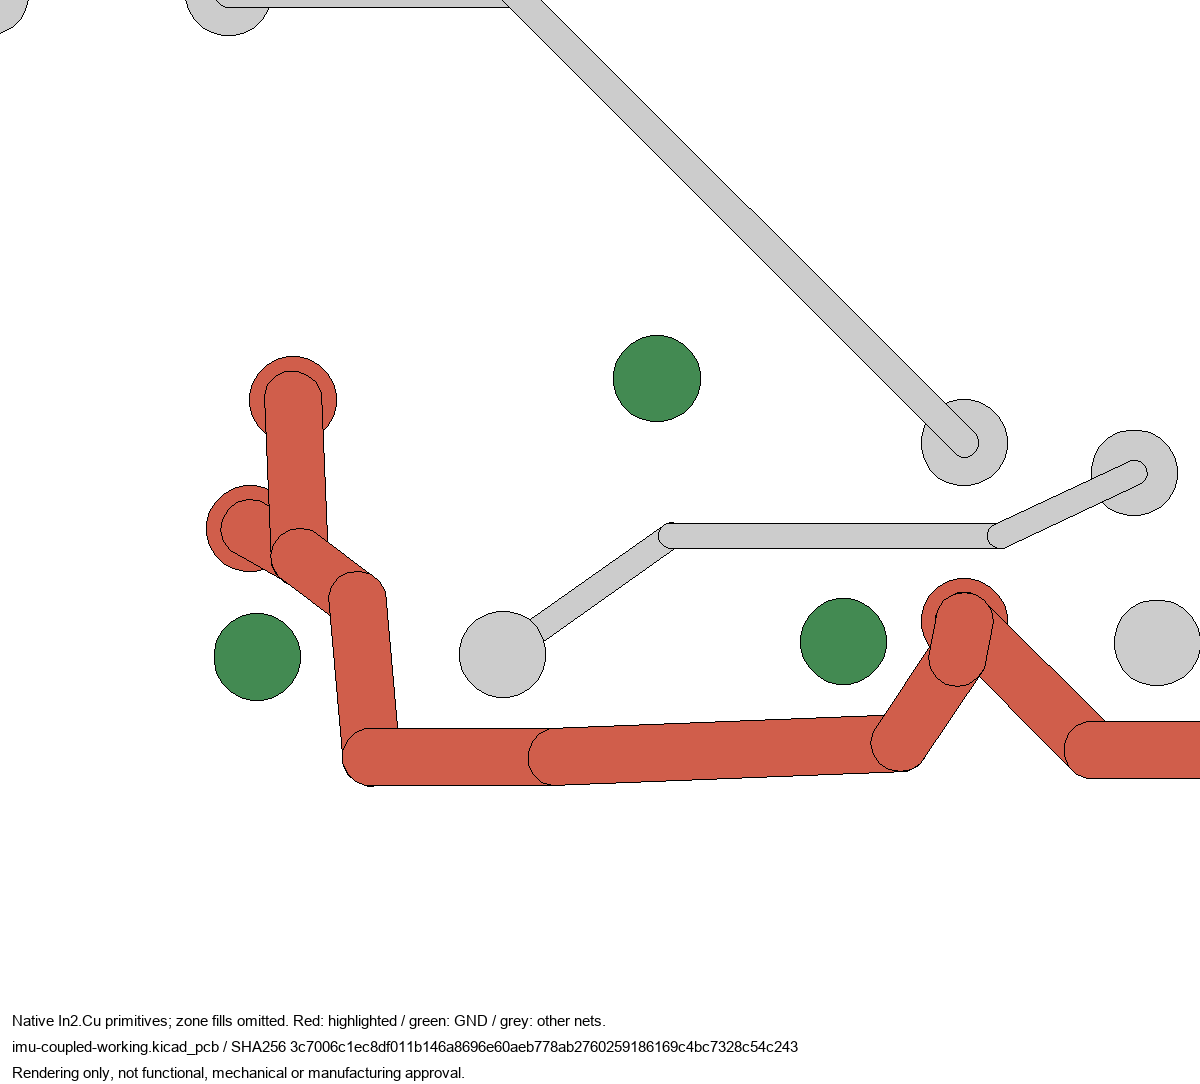
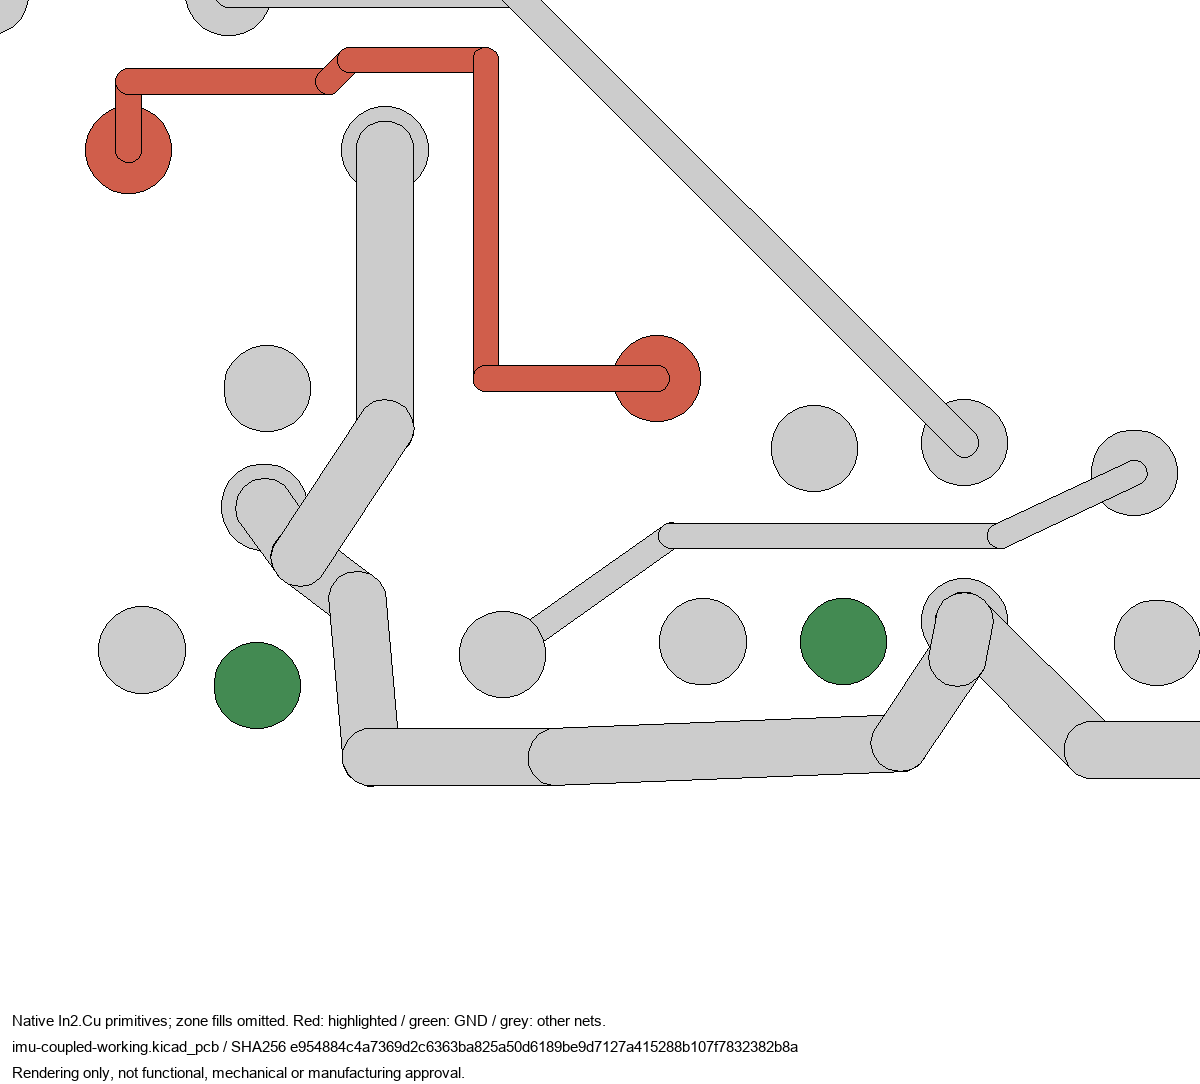
Preserve complete local IMU primitive routing for electrical qualification

Changed region(s): [[0.0617, 0.0304, 1.0, 0.7306], [0.2467, 0.9437, 0.6783, 0.9742], [0.6167, 0.3653, 0.74, 0.4566]]

diff --git a/docs/pcb-closure-plan.md b/docs/pcb-closure-plan.md
@@ -166,6 +166,49 @@ primitive proof and ERC after byte comparisons, rather than rerunning them;
 
 ## Owner pause and next item
 
+**September 24: complete local primitive block staged; acceptance pending.**
+The [layer-correction result](../hardware/handbell/iterations/printed-bell-four-layer/reports/imu-signal-layer-correction.json)
+records working PCB
[2 lines of base64/hex data omitted]
+The recovery pair `reports/imu-coupled-working.*` now holds those bytes;
+earlier repaired-supply versions remain in Git history.
+
+The shallower CS detour and additional ordinary INT B-to-F transition
+passed simultaneous native geometry. The proposed R15 move, conditional
+spur removal, ground reroute and signal plan are now actually applied.
+All local supply/exterior duties, SCL including R14, SDA including R15,
+INT2-to-TP6 and INT-to-local-F-exit are connected primitively with zero
+shorts. GND1/2/3 reaches C23.2 and GND6/7 reaches the local via.
+All nine changed/new ordinary vias pass same-net-inclusive off-pad checks.
+The 21 zone definitions are unchanged and have no filled caches.
+INT still does not reach IC1.34; that external connection is not claimed.
+
+**Next bounded item: electrical qualification of these exact saved bytes.**
+Preserve an immutable unfilled pair; refill a separate output using the
+exercised settings, with matching project/rules inputs. Persist each gate.
+Compare the full accepted baseline's connected pad groups, not just IMU
+representatives. Require both new returns to MAIN, no lost prior groups,
+cross-net shorts or floating copper, both actual private-terminal cuts,
+CELL_NEG isolation, full contact/drill/clearance and source/manifest/zone
+invariants, then native DRC with an explicit open-count comparison.
+Expected local progress is at least the two GND opens and SCL pullup open;
+do not assert 38 opens before measuring the filled board.
+
+Run one 15-minute qualification item with at most two validator-only
+corrections; no new routing or placement changes. Source-invariant checks
+must include all cumulative rework releases from the accepted source,
+including the proved conditional spur removal and preserved exterior
+geometry. Do not weaken the acceptance criteria to match a failing result.
+If a routing defect appears, retain evidence and return a finite repair
+list instead of modifying copper inside a validation task.
+
+Even electrical qualification does not promote this candidate. The
+actual return-plane continuity, local decoupling supply/return paths,
+B/In2 signal adjacency and via transitions still need engineering review,
+and moved IC4/R15 require exact mechanical rebinding. The authoritative
+board remains the unchanged 41-open checkpoint until all applicable gates.
+
 **September 24, 10:59 explicit resumption.** Resume from the matched
 `3c7006c1...` / `a1278051...` repaired supply candidate, not the failed
 in-memory signal proposal. The accepted 41-open board remains unchanged.

diff --git a/hardware/handbell/iterations/printed-bell-four-layer/README.md b/hardware/handbell/iterations/printed-bell-four-layer/README.md
@@ -25,17 +25,20 @@ does not qualify full routing, DRC, powered behavior or mechanical fit.
 Continue only through the [current closure handoff](../../../../docs/pcb-closure-plan.md#owner-pause-and-next-item).
 
 The subsequent [working PCB](reports/imu-coupled-working.kicad_pcb) and
-[working manifest](reports/imu-coupled-working-manifest.json) now preserve
-all five ground straps, all local supply duties and INT2-to-TP6 routing.
-The [ordinary-via repair](reports/imu-vddio-via-repair.json) closes the
-same-net pad-overlap process finding without adding a via-in-pad dependency.
+[working manifest](reports/imu-coupled-working-manifest.json) now contain
+the [complete local primitive block](reports/imu-signal-layer-correction.json):
+local supply, SCL, SDA, INT2-to-TP6 and an INT local exit are connected.
+Ground straps reach C23.2/local via, not yet proven MAIN-plane attachment.
+IC4 and R15 are each shifted north 0.50 mm in this working candidate.
+Ordinary-via off-pad checks pass without a new via-in-pad dependency.
 Their native
 [front](reports/imu-working-front.png)/[inner](reports/imu-working-inner.png)
 views are source-bound, not complete group/plane or source/DRC qualification.
-SCL pullup, SDA and INT routing remain open, as do refill and acceptance gates.
-The [final signal screen](reports/imu-signal-closure.json) did not pass;
-its proposed R15 move and signal copper were not written. Engineering is
-paused at the [exact stopping handoff](../../../../docs/pcb-closure-plan.md#owner-pause-and-next-item).
+Refill, full electrical and mechanical acceptance gates remain open, along
+with the external INT-to-MCU connection. The earlier
+[failed signal screen](reports/imu-signal-closure.json) is historical;
+the corrected plan was applied after explicit September 24 resumption.
+Follow the [current handoff](../../../../docs/pcb-closure-plan.md#owner-pause-and-next-item).
 Earlier working versions/reports are historical; the handoff records the
 precise current evidence limits and remaining replacement duties.
 

diff --git a/AGENTS.md b/AGENTS.md
@@ -4,9 +4,10 @@
 
 - **September 24 resumed:** the owner explicitly resumed work. Start from
   the repaired supply candidate and the two recorded signal conflicts,
-  retaining the Astra/Sol split and bounded retries. The next release
-  adjusts the local CS detour and permits one ordinary INT transition
-  from B to F; native simultaneous checks remain authoritative. See
+  retaining the Astra/Sol split and bounded retries. The local CS detour
+  and INT layer transition now pass; the complete local primitive block
+  is saved as `e954884c...` with matching manifest. Next is validation-only
+  refill/full electrical qualification, not more routing or promotion. See
   `docs/pcb-closure-plan.md#owner-pause-and-next-item`.
 - **Historical September 23 stopping checkpoint:** after the owner's request for a
   stopping point within 20-30 minutes, the current IMU signal item finished
